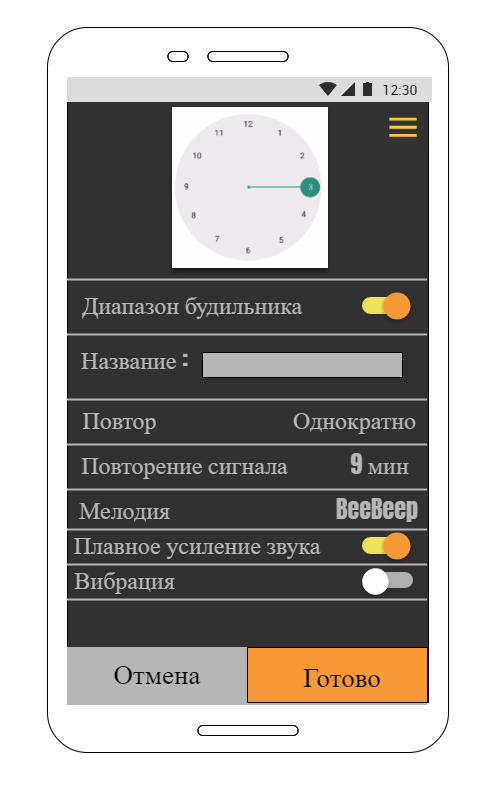
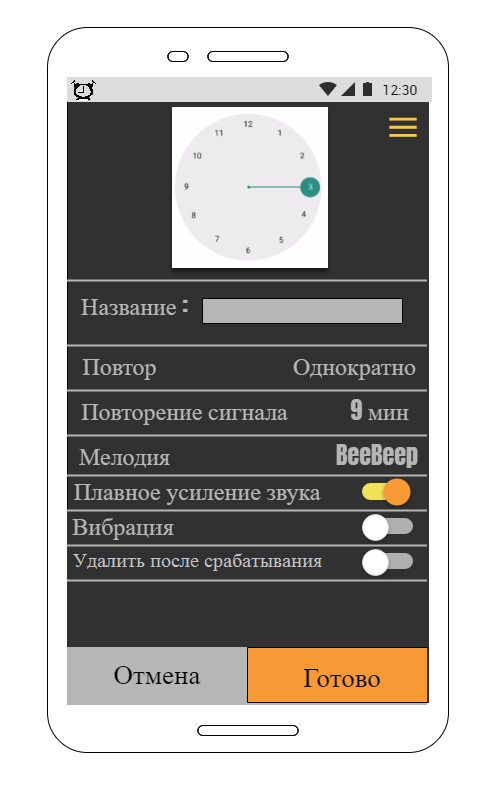
Change requiremenst and newAlarm mockup

Changed region(s): [[0.1222, 0.3325, 0.8859, 0.7557], [0.1527, 0.0907, 0.2138, 0.1511], [0.8554, 0.8161, 0.8859, 0.8766]]

diff --git a/Docs/Requirements - RUS.md b/Docs/Requirements - RUS.md
@@ -8,35 +8,31 @@ Android-приложение YAAC представляет собой обычн
 ## 2 Требования пользователя
 
 ###   2.1 Программные интерфейсы
-Для создания проекта будет использоваться IDE Android Studio.
+Для создания проекта будет использовано API для Android 4.4 (API Level 19).
 ###   2.2 Интерфейс пользователя
 Интерфейс пользователя приведен на мокапах, которые можно найти в данном репозитории (YAAC/mockups).
 ###   2.3 Характеристики пользователей
-Приложение не требует никаких специальных умений и расчитано на очень широкую 
-аудиторию (все пользователи смартфонов с ОС Android 4.0.3+).
+Целевая аудитория: все пользователи смартфонов с ОС Android пользующиеся будильником на устройстве. С любым уровнем образования и минимальным опытом использования смартфонов. 
 ##   3 Системные требования
-Для работы с приложением необходим смартфон под управлением ОС Android версии 4.0.3+.
+Для работы с приложением необходим смартфон под управлением ОС Android версии 4.4+.
 ### 3.1 Функциональные требования
 - Вывод списка созданных будильников
-  - Возможность сортировки списка по времени срабатывания, по состоянию(активен, не активен)
+  - Возможность сортировки списка по времени срабатывания
 - Создание нового будильника со следующими параметрами:
   - Время срабатывания
   - Название будильника
   - Дни повторения
   - Интервал повторения сигнала
-  - Диапазон повторения (время, после которого будильник выключается)
   - Мелодия сигнала
-  - Время воспроизведения сигнала (до конца мелодии, зацикливание, определённое время)
   - Плавное усиление звука
   - Вибрация
   - Удалить после срабатывания
 - Редактирование параметров существующего будильника
 - Удаление будильника
-- Возможность вывода уведомления с информацией о ближайшем сигнале с возможностью 
-пропустить(если данный сигнал повторяется в некоторые дни) или отменить данный будильник
-- Вывод уведомлений о пропущенных сигналах. 
+- Вывод значка в "статус бар", сигнализирующего об активированном будильнике(будильниках)
+- Вывод уведомлений о пропущенных сигналах.
 ### 3.2 Нефункциональные требования
 #### 3.2.1 АТРИБУТЫ КАЧЕСТВА
 - Надёжность: активированные будильники не выключаются при закрытии приложения или перезагрузки устройства. 
 Будильники должны срабатывать и после закрытия приложения. Высокий приоритет уведомлений о пропущенных сигналах.
-- Открытость кода: исходные файлы проекта будут находиться в свободном доступе, поэтому приложение может быть модифицированно по желанию потенциальных пользователей.
+- Требования к удобству использования: названия кнопок или изображения на них должны однозначно указывать на их функционал.
